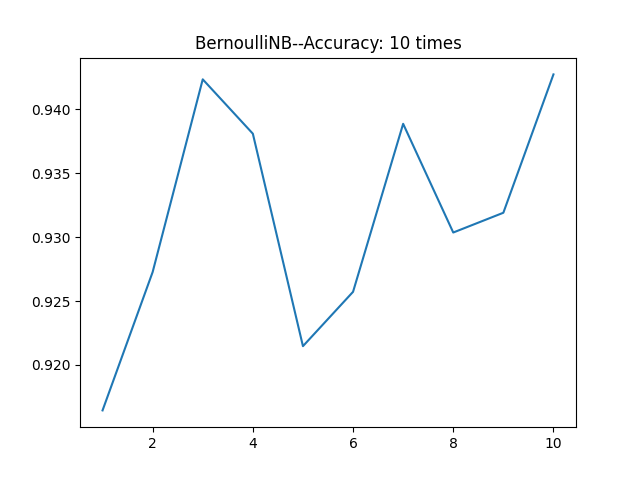
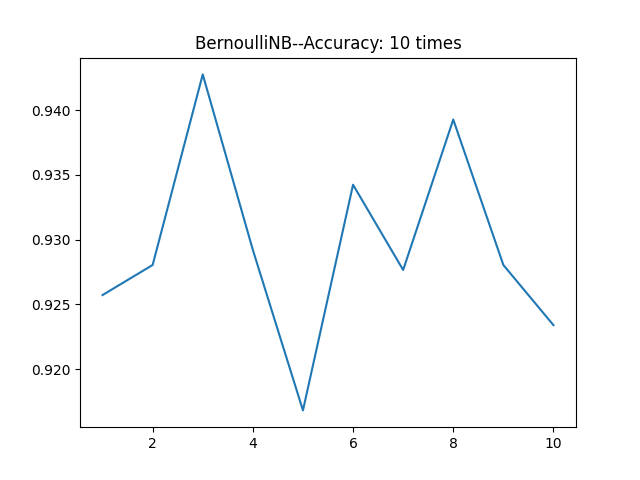
change model

diff --git a/Bayes/bayes.py b/Bayes/bayes.py
@@ -127,7 +127,7 @@ for m in range(10):
     nb1 = BernoulliNB(alpha=1.0, binarize=0.001)  # Bayes
     nb2 = GaussianNB()  # GaussianNB
 
-    model = nb2.fit(data, y_train)
+    model = nb1.fit(data, y_train)
 
     # print(nb1.score(data, y_train))
 
@@ -184,14 +184,14 @@ print("The average accyracy is : ",np.mean(acc))
 #
 # plt.show()
 
-plt.plot(a,acc)
-plt.title('GaussianNB--Accuracy: 10 times')
-plt.savefig("GaussianNB_acc.png")
-plt.show()
-
 # plt.plot(a,acc)
-# plt.title('BernoulliNB--Accuracy: 10 times')
-# plt.savefig("BernoulliNB_acc.png")
+# plt.title('GaussianNB--Accuracy: 10 times')
+# plt.savefig("GaussianNB_acc.png")
 # plt.show()
+
+plt.plot(a,acc)
+plt.title('BernoulliNB--Accuracy: 10 times')
+plt.savefig("BernoulliNB_acc.png")
+plt.show()
 
 ########################################################################   end
